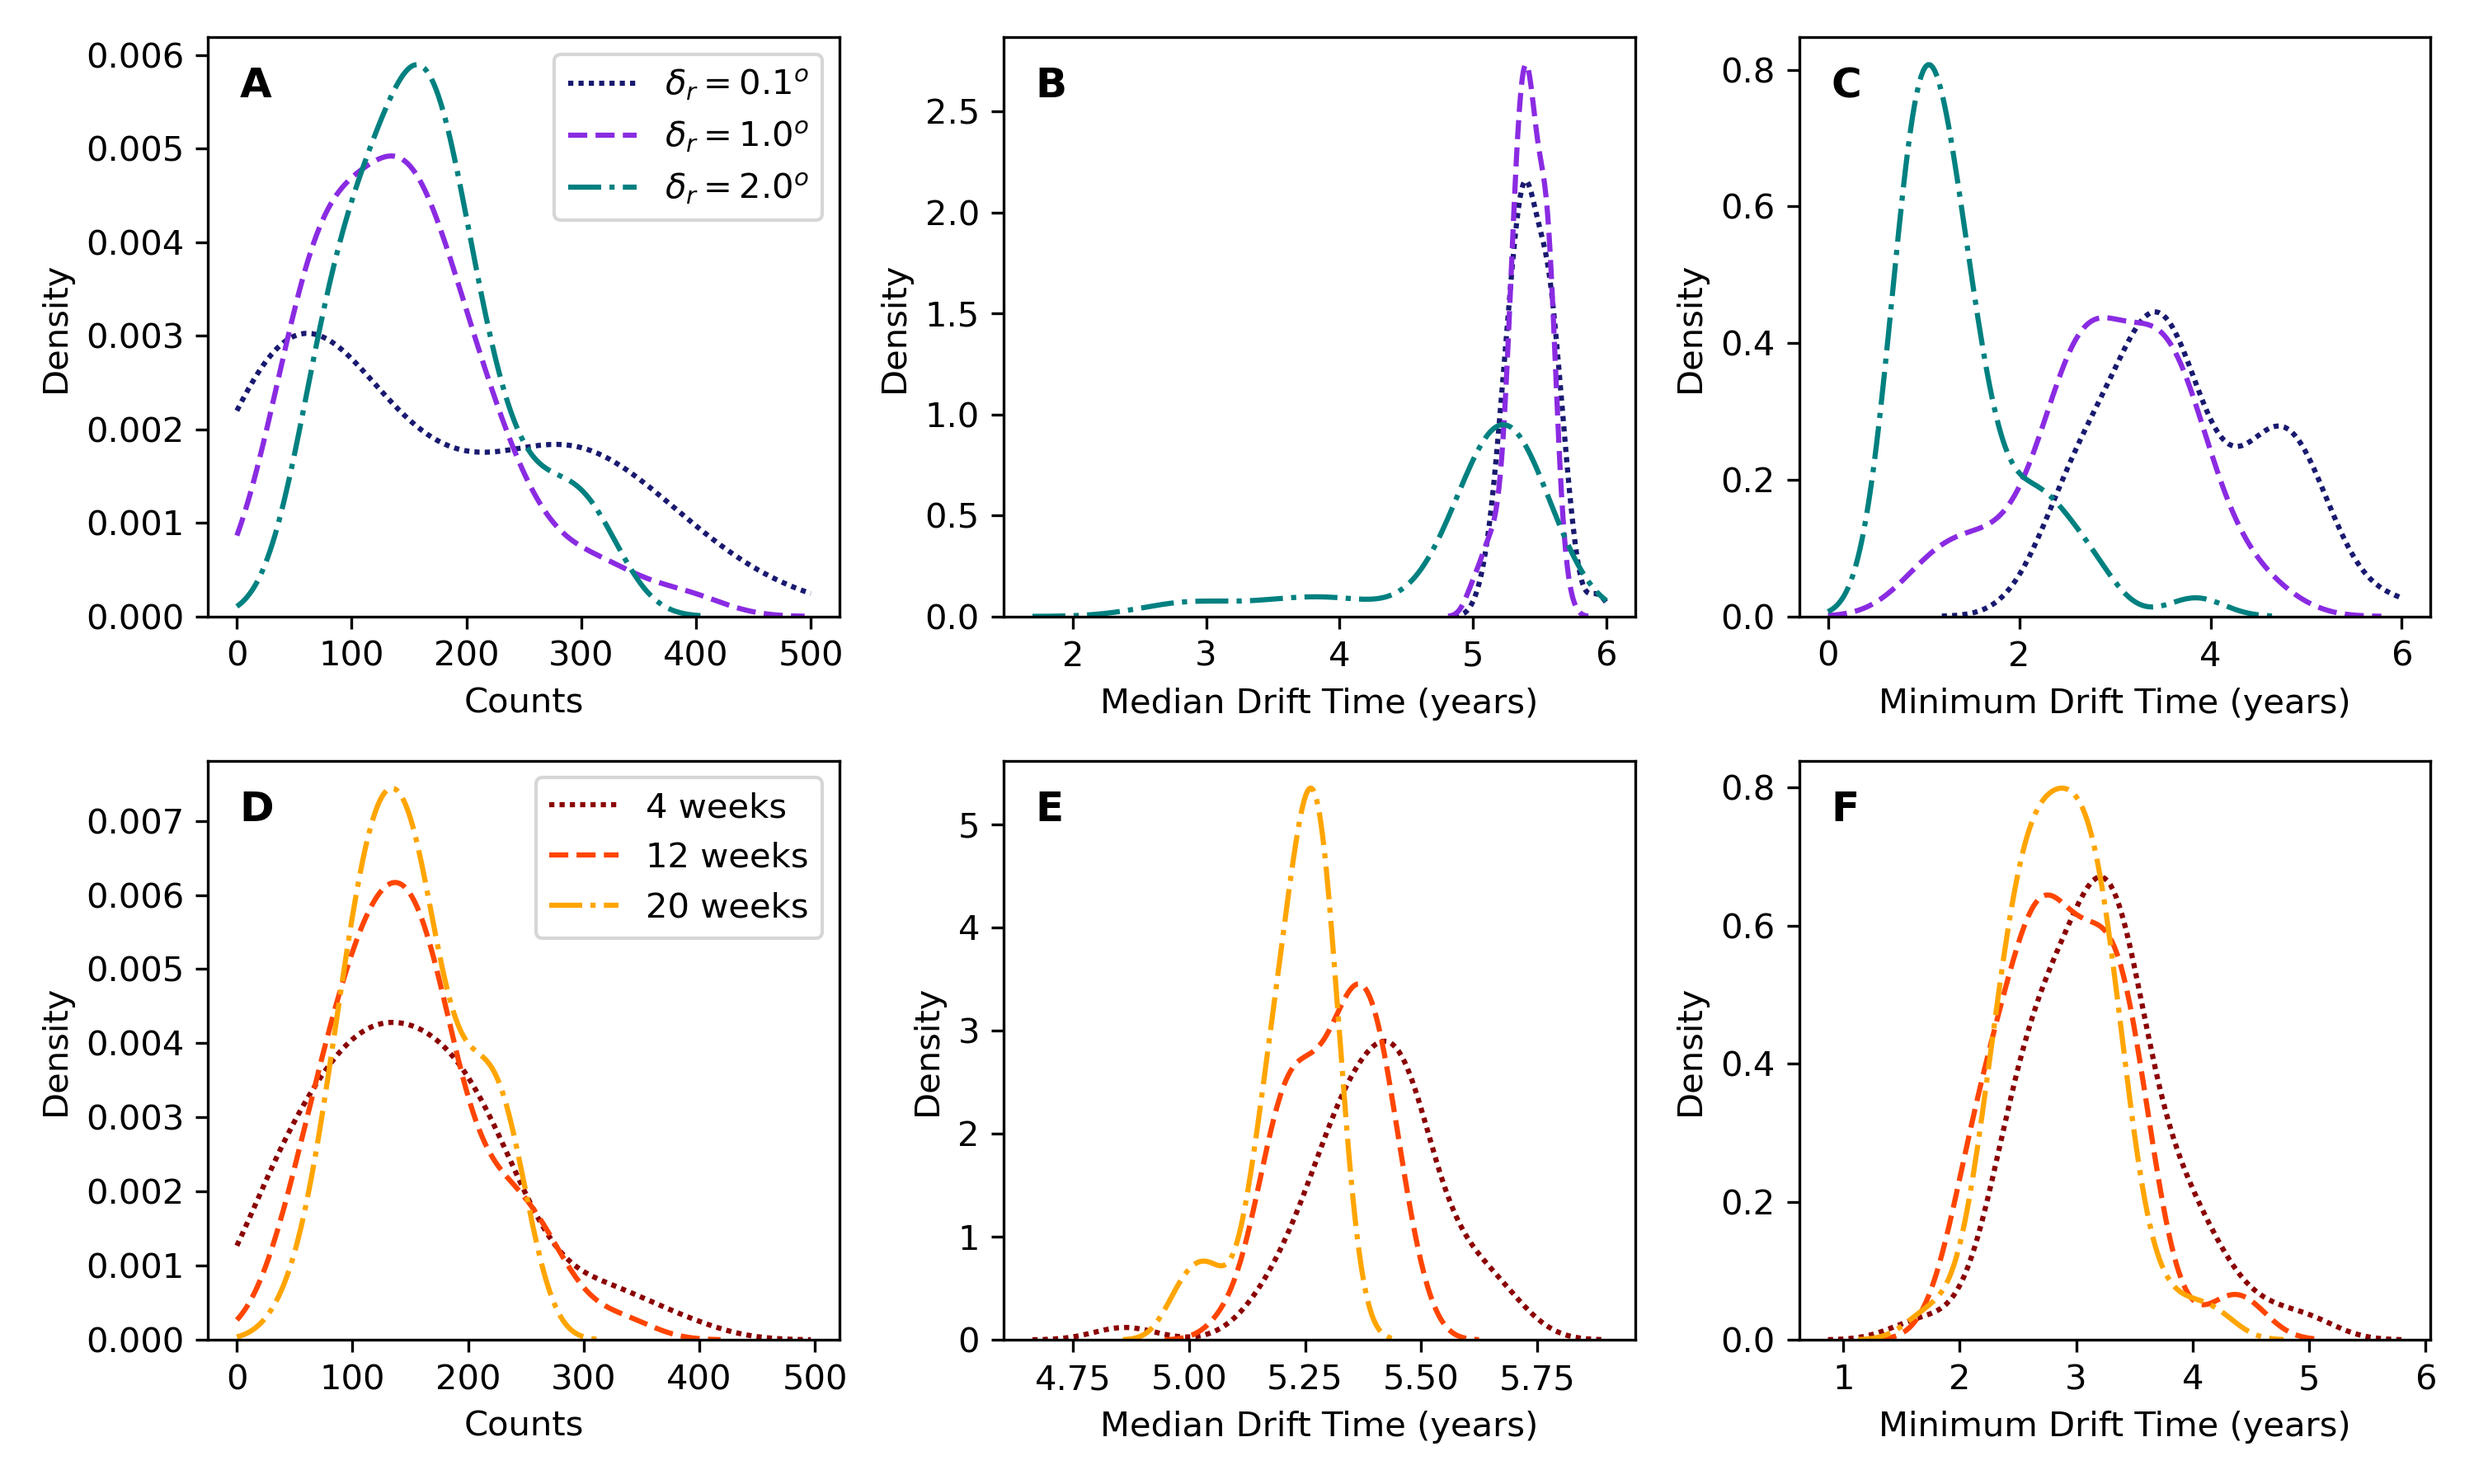
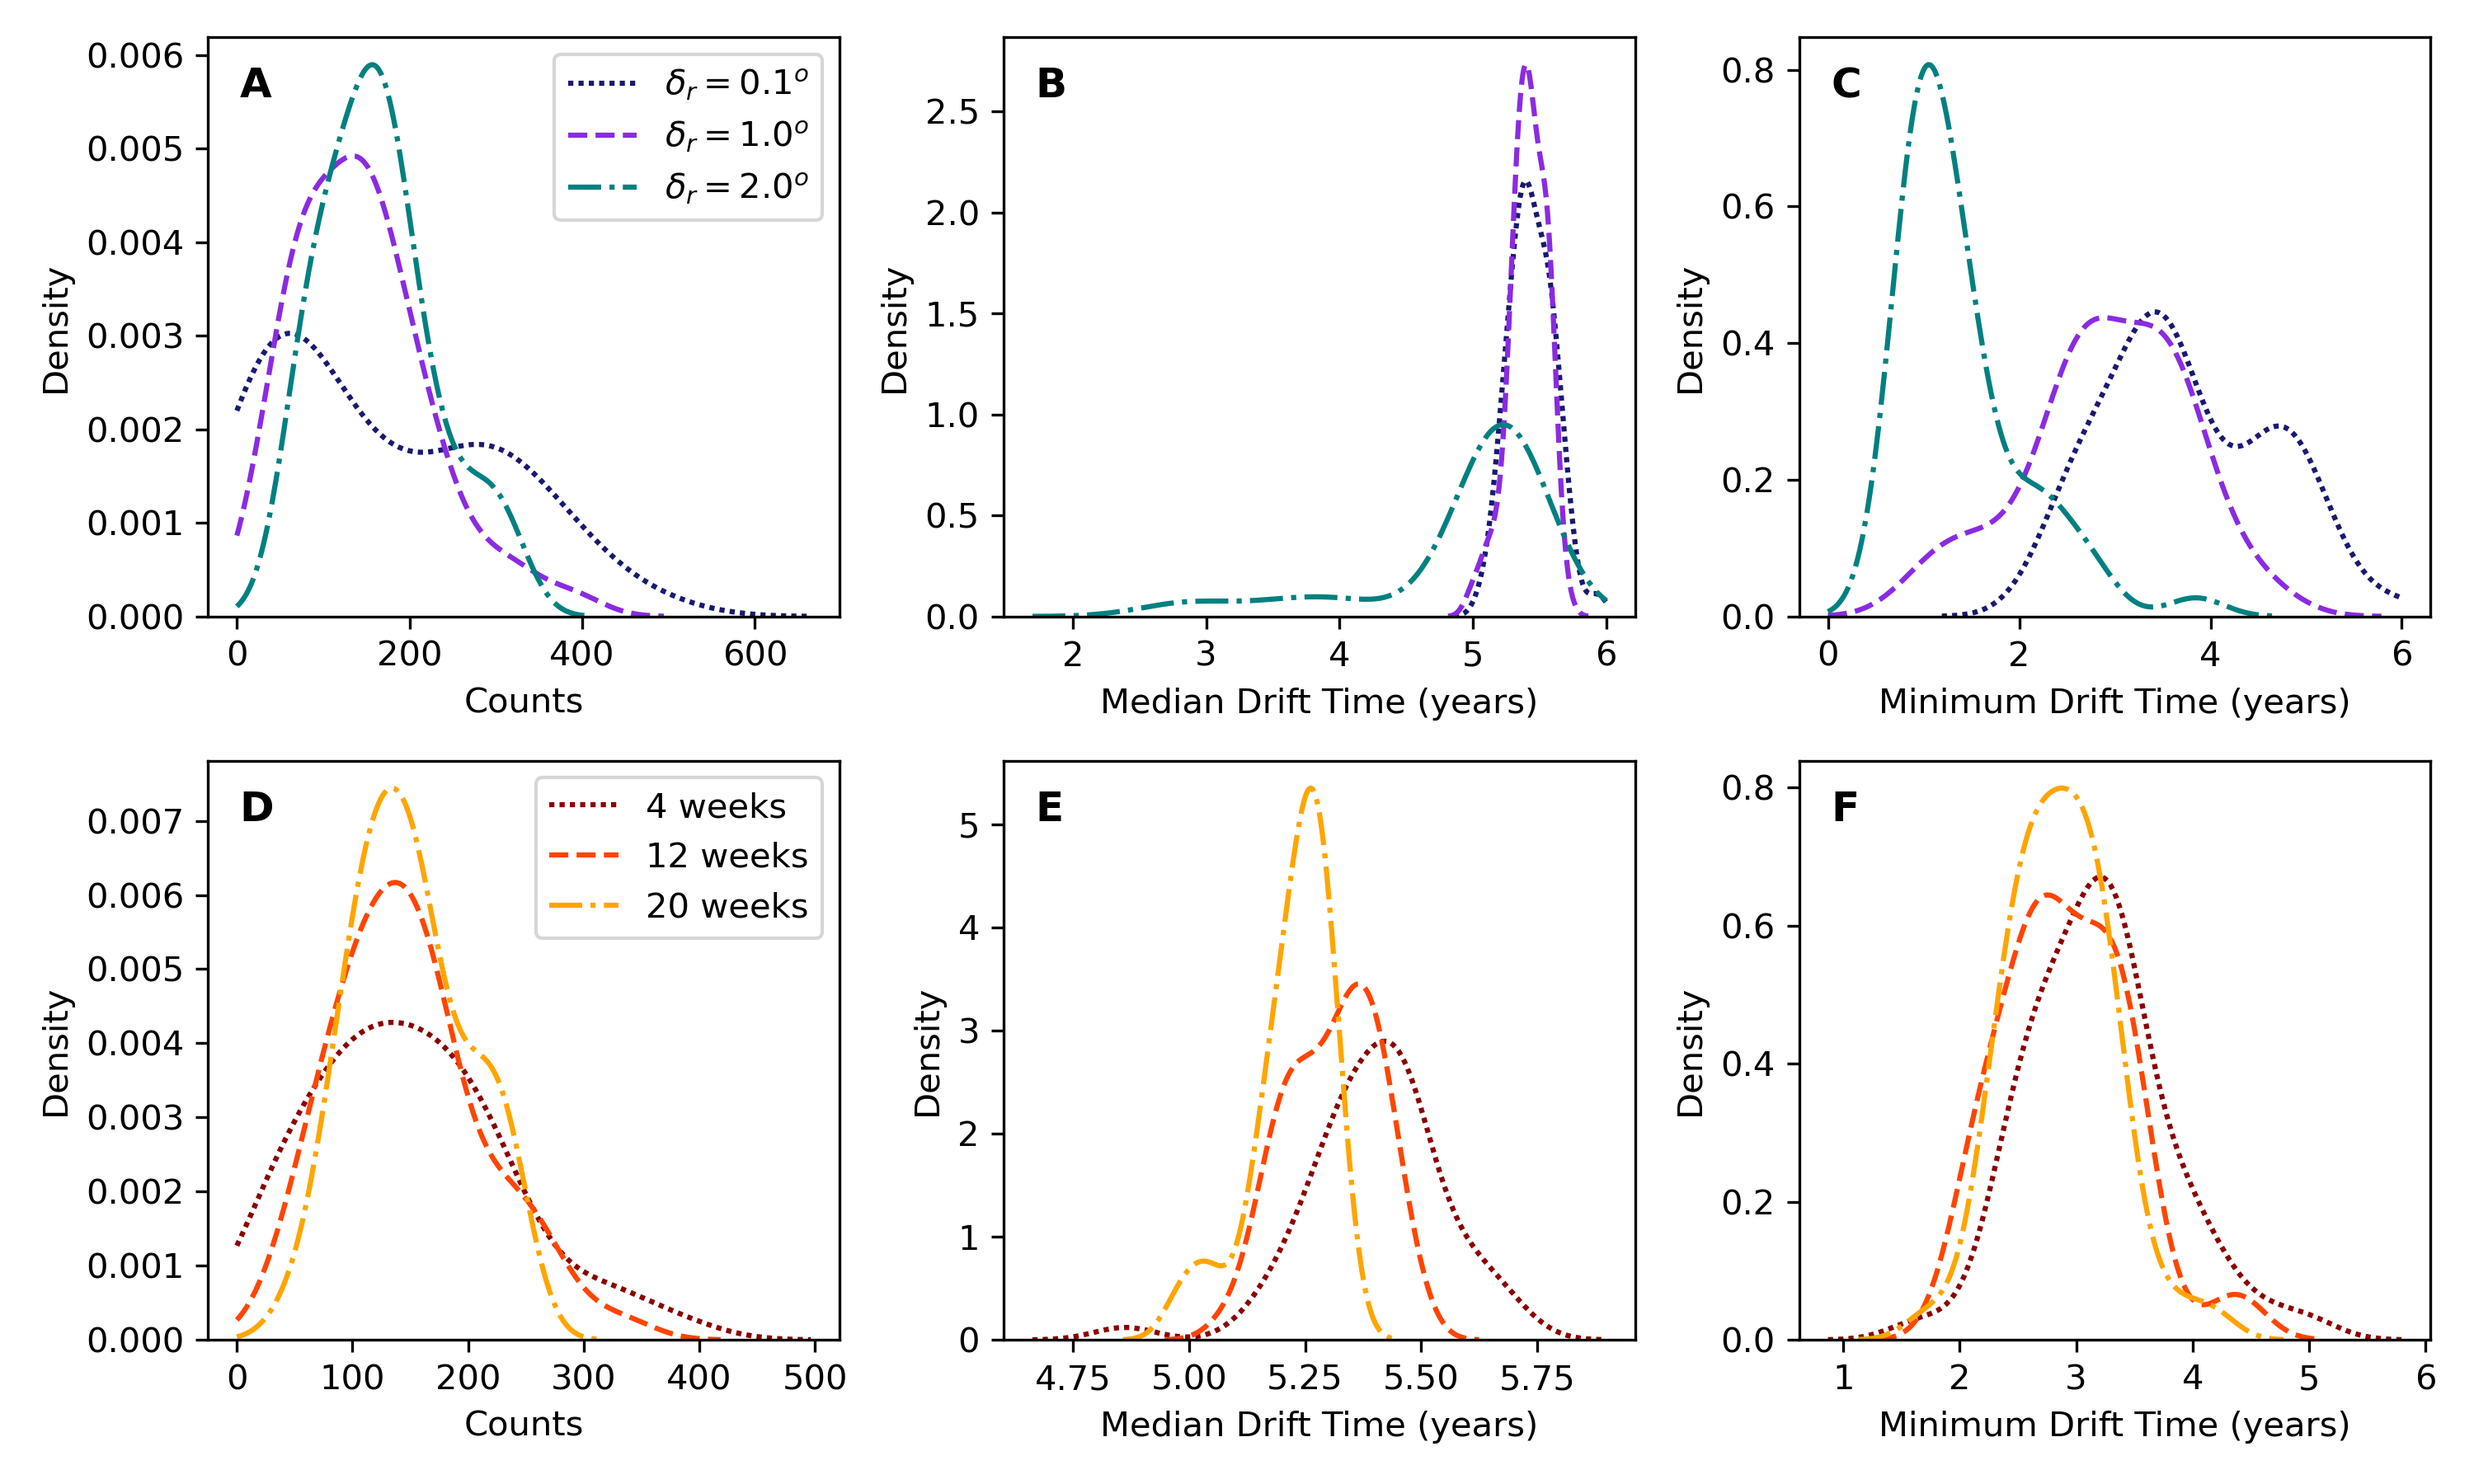
find bug in mixture connectivity replace pset with pset_member. Now more counts in mixture distributions

Changed region(s): [[0.093, 0.0622, 0.341, 0.4667], [0.124, 0.4356, 0.186, 0.4667]]

diff --git a/plot_scripts/fig6--Connectivity.py b/plot_scripts/fig6--Connectivity.py
@@ -15,8 +15,8 @@ location = "Cape_Hatteras"
 base_path = "/storage/shared/oceanparcels/output_data/data_Claudio/NEMO_Ensemble/"
 
 
-Latitude_limit = None
-Longitude_limit = -40
+Latitude_limit = 44 # 44 or 53
+Longitude_limit = None # -40 
 
 if Latitude_limit is not None:
     criterium_string = f"_{Latitude_limit}N"
@@ -52,7 +52,7 @@ colors_space = ["midnightblue", "blueviolet", "teal"]
 ls_space = [(0, (1, 1)), '--', '-.']
 j = 0
 for delta_r in [0.1, 1., 2.]:
-    sns.kdeplot(all_space[delta_r]["counts"], ax=ax[0], label=f"$\delta_r = {delta_r}^o$", clip=(0, 500),
+    sns.kdeplot(all_space[delta_r]["counts"], ax=ax[0], label=f"$\delta_r = {delta_r}^o$", clip=(0, 7500),
                 fill=False, color=colors_space[j], linestyle=ls_space[j])
     # kde_space[delta_r] = _counts_dr.get_lines()[j].get_data() # save the KDE values for entropy computation
     
@@ -66,7 +66,7 @@ colors_temp = ["darkred", "orangered", "orange"]
 ls_time = [(0, (1, 1)), '--', '-.', (0, (3, 1, 1, 1, 1, 1))]
 j = 0
 for week in [4, 12, 20]:
-    sns.kdeplot(all_temp[week]["counts"], ax=ax[3], label=f"{week} weeks", clip=(0, 500),
+    sns.kdeplot(all_temp[week]["counts"], ax=ax[3], label=f"{week} weeks", clip=(0, 7500),
                 fill=False, color=colors_temp[j], linestyle=ls_time[j])
     # kde_temp[week] = _counts.get_lines()[j].get_data() # save the KDE values for entropy computation
     
@@ -105,7 +105,7 @@ plt.tight_layout()
 # save the figure
 plt.savefig("../figs/Figx-Connect_tempNspace" + criterium_string + ".png", dpi=300)
 
-#%% Plot the percentage of subpolar trajectories for Mixture temporal and spatial members
+# %% Plot the percentage of subpolar trajectories for Mixture temporal and spatial members
 fig, ax = plt.subplots(2, 3, figsize=(10, 6))
 
 ax = ax.flatten()
@@ -116,7 +116,7 @@ ls_space = [(0, (1, 1)), '--', '-.']
 j=0
 
 for delta_r in [0.1, 1., 2.]:
-    sns.kdeplot(all_mix_space[delta_r]["counts"], ax=ax[0], label=f"Mix. $\delta_r = {delta_r}^o$", clip=(0, 500),
+    sns.kdeplot(all_mix_space[delta_r]["counts"], ax=ax[0], label=f"Mix. $\delta_r = {delta_r}^o$", clip=(0, 5000),
                 fill=False, color=colors_space[j], linestyle=ls_space[j])
     # kde_mix_space[delta_r] = _counts.get_lines()[0].get_data() # save the KDE values for entropy computation
     
@@ -132,7 +132,7 @@ colors_temp = ["darkred", "orangered", "orange"]
 ls_time = [(0, (1, 1)), '--', '-.', (0, (3, 1, 1, 1, 1, 1))]
 j = 0
 for week in [4, 12, 20]:
-    sns.kdeplot(all_mix_temp[week]["counts"], ax=ax[3], label=f"Mix. {week} weeks", clip=(0, 500),
+    sns.kdeplot(all_mix_temp[week]["counts"], ax=ax[3], label=f"Mix. {week} weeks", clip=(0, 5000),
                 fill=False, color=colors_temp[j], linestyle=ls_time[j])
     # kde_mix_temp[week] = _counts.get_lines()[j].get_data() # save the KDE values for entropy computation
     

diff --git a/analysis/connectivity_single_member_stats.py b/analysis/connectivity_single_member_stats.py
@@ -70,7 +70,7 @@ distributions = {}
 total_members = 50
 
 for week in [4, 12, 20]:
-    for member in tqdm(range(27, total_members + 1)):
+    for member in tqdm(range(1, total_members + 1)):
         print(f"Member: {member:03d},  Week: {week}")
         file_path = path + f"{location}/temporal_long/W_{week:01d}/{location}_W{week:01d}_m{member:03d}.zarr"
         
@@ -223,9 +223,10 @@ for week in [12, 20]:
                 distributions = pickle.load(f)
             
             drift_time = distributions["drift_time"]
-            # print(f"Member {member} week {week}. Number of particles: {len(drift_time)}")
+            print(f"Member {member} week {week}. Number of particles: {len(drift_time)}")
             depths = distributions["depths"]
             trajectory = distributions["trajectory"]
+            
             
             median_time[member - 1] = np.median(drift_time)
             mean_time[member - 1] = np.mean(drift_time)

diff --git a/analysis/connectivity_mixture_stats_temporal.py b/analysis/connectivity_mixture_stats_temporal.py
@@ -10,8 +10,8 @@ import os
 location = "Cape_Hatteras"
 base_path = f"/storage/shared/oceanparcels/output_data/data_Claudio/NEMO_Ensemble/"
 
-Latitude_limit = None
-Longitude_limit = -40
+Latitude_limit = 44
+Longitude_limit = None
 
 print(f"Temp. Latitude limit: {Latitude_limit}")
 print(f"Temp. Longitude limit: {Longitude_limit}")
@@ -48,11 +48,12 @@ for week in [4, 12, 20]:
         print(f"Subset:{k} week: {week}. Number of particles: {len(pset_members.trajectory)}")
 
         if Latitude_limit is not None:
-            lats = pset.lat.values
+            lats = pset_members.lat.load().values
             p_index, t_index = np.where(lats[:, :] > Latitude_limit)
             
         elif Longitude_limit is not None:
-            lons = pset.lon.values
+            lons = pset_members.lon.load().values
+            print("lons shape", lons.shape)
             p_index, t_index = np.where(lons[:, :] > Longitude_limit)
         
         

diff --git a/analysis/connectivity_mixture_stats_spatial.py b/analysis/connectivity_mixture_stats_spatial.py
@@ -10,8 +10,8 @@ import os
 location = "Cape_Hatteras"
 base_path = f"/storage/shared/oceanparcels/output_data/data_Claudio/NEMO_Ensemble/"
 
-Latitude_limit = None
-Longitude_limit = -40
+Latitude_limit = 44
+Longitude_limit = None
 
 print(f"Space. Latitude limit: {Latitude_limit}")
 print(f"Space. Longitude limit: {Longitude_limit}")
@@ -51,11 +51,11 @@ for delta_r in [0.1, 1., 2.]:
         N_particles = len(pset_members.trajectory)
 
         if Latitude_limit is not None:
-            lats = pset.lat.values
+            lats = pset_members.lat.values
             p_index, t_index = np.where(lats[:, :] > Latitude_limit)
             
         elif Longitude_limit is not None:
-            lons = pset.lon.values
+            lons = pset_members.lon.values
             p_index, t_index = np.where(lons[:, :] > Longitude_limit)
         
         
